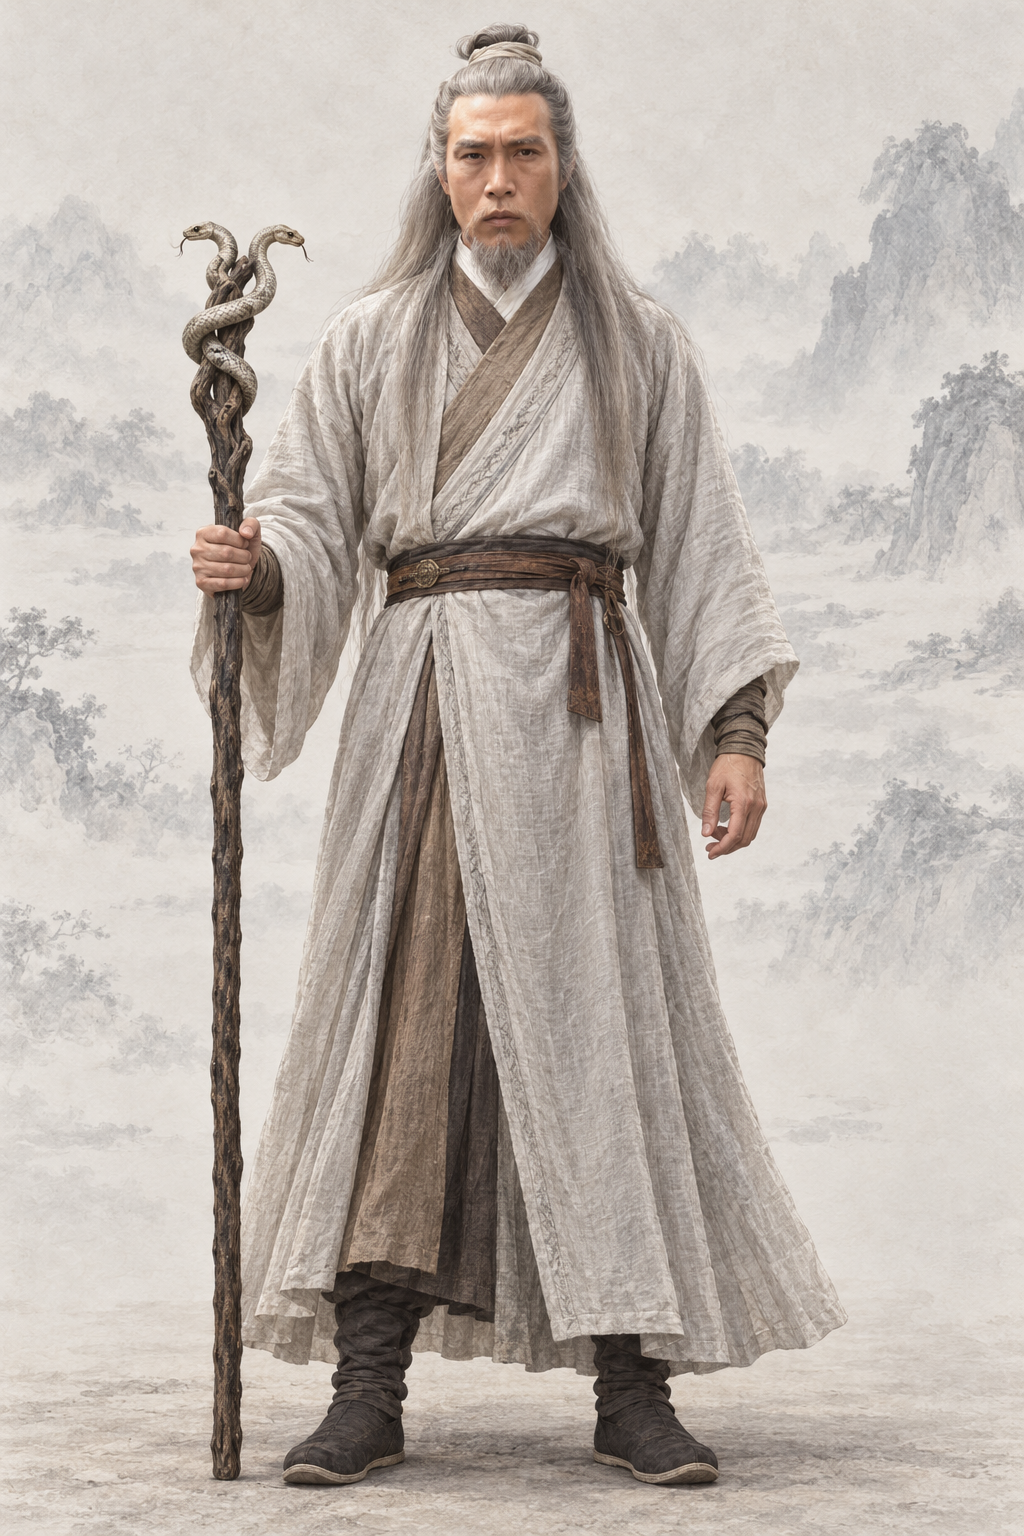
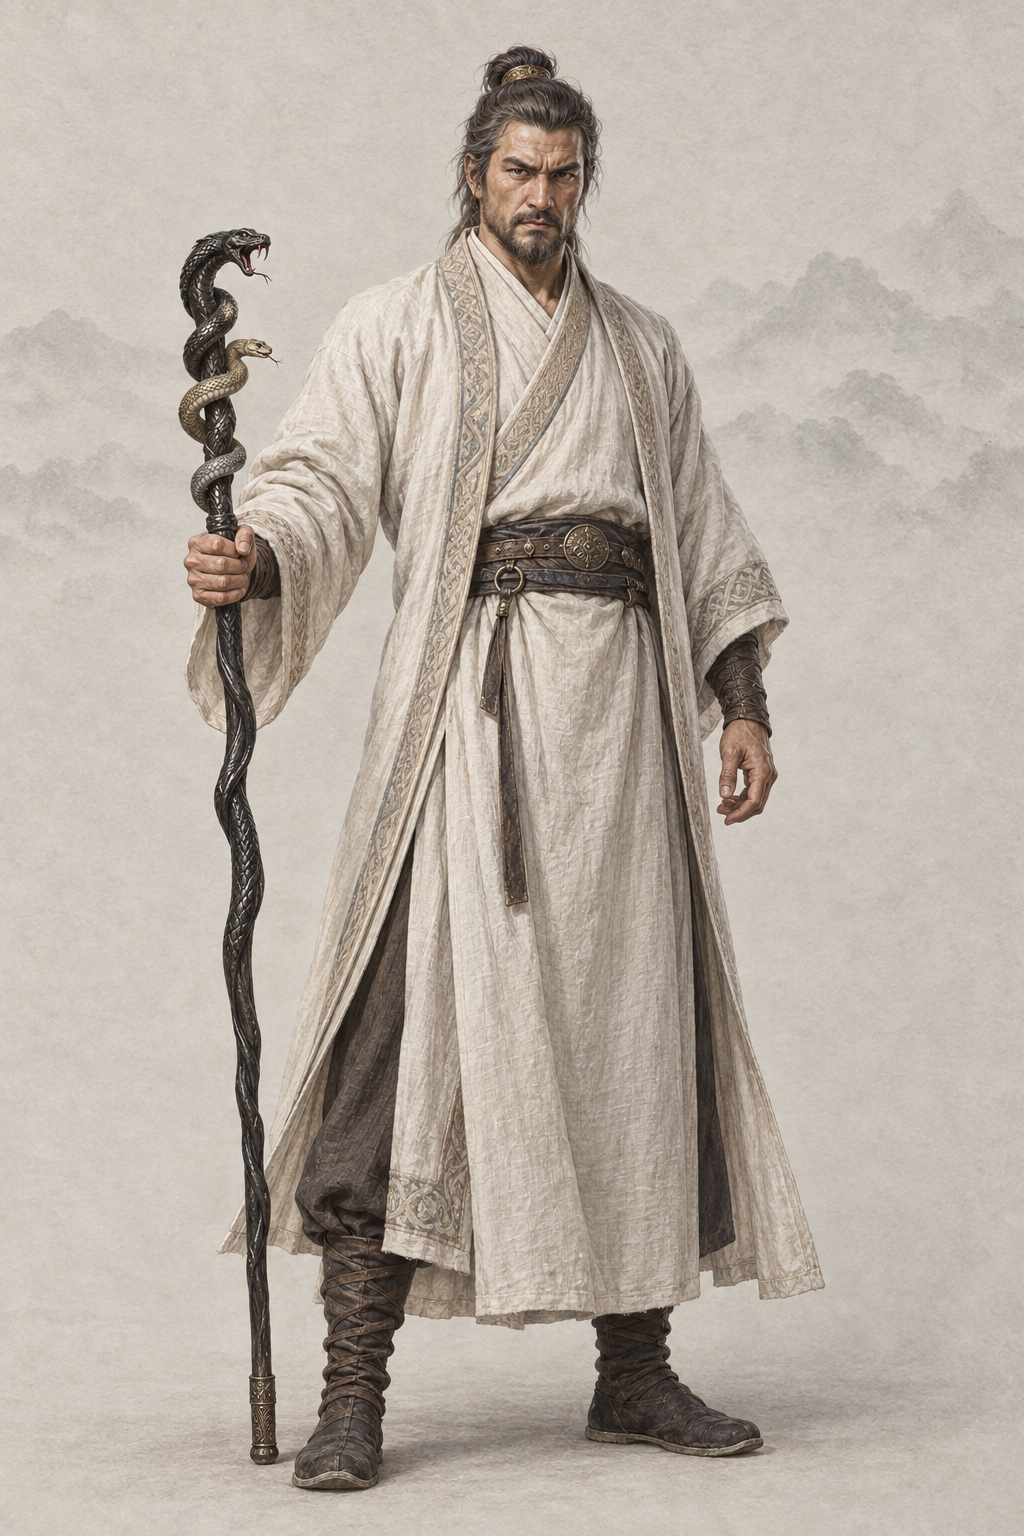
assets(character): por_npc_ouyangfeng__ch02_elder_sane_base 欧阳锋（codex）
AR-31：重要人物加经典造型文字描写（原创面孔，不写演员名、不传剧照）

diff --git a/assets/default/prompts/characters/ch02-shediao/npc_ouyangfeng.md b/assets/default/prompts/characters/ch02-shediao/npc_ouyangfeng.md
@@ -20,11 +20,31 @@ realism_revision: user_identity_pose_20261001
 redo_reason: "面容源自 1983 版剧照且是汉人面孔，原著“高鼻深目、脸上须毛棕黄、似非中土人氏”的西域相貌没有体现"
 reference_upload:
 - assets/default/baseline/character/male/ref_npc_linghuchong__ch05_base01.png
+codex_prompt_rev: 2026-10-02
 ---
 
 # 欧阳锋 · 人物写实修正
 
 ## Gemini 提示词
+
+> 2026-10-02 AR-31 改写（1 号出图员，codex exec · image_gen 出图）：重要人物借鉴经典影视造型，只写成文字——不写演员名、不上传剧照、原创面孔；主角和美人画得好看，去 AI 味，禁止幼态。出图时上传两张同性别基线立绘作画风参考（放在最后）。审核组原稿保留在下一节作历史。
+
+```text
+生成一张 2:3 竖幅全身人物立绘：单人、单一视角、完整全身——头顶、双手、双脚和手中器物的两端都在画面内，四周留出自然空白；人物站姿自然，身体基本朝向正面，头部端正（不歪头、不仰不俯），镜头平视。
+【画风】写实手绘古风人物插画，与本项目写实武侠角色立绘同一画风：人物是完整、坚实、比例真实的写实绘画；皮肤有真实质感——细小毛孔、细纹、晒痕、轻微色斑和自然的左右不对称，不磨皮、不油亮；头发有一根根的发丝和自然碎发；布料看得出经纬纹理、厚薄和自然垂坠的褶皱，带穿用过的轻微旧化，但完整不破烂；整体设色低饱和、沉稳；柔和的自然光从左上方照来，明暗过渡自然，不打舞台光、轮廓光或美颜柔光。这是手绘写实绘画，不是照片，不是三维渲染，也不是动漫或游戏 CG。
+【背景】不透明的暖浅灰色纸底，只在远处有极淡的水墨远山和薄雾，大面积留白；人物与背景明暗分明、轮廓边缘干净完整（后续要自动抠图），水墨和纸纹只在背景里，不侵入人物和衣服；脚下只有很淡的一点接触阴影。
+【人物】欧阳锋，《射雕英雄传》西毒，西域白驼山主人，天下五绝之一，神志清醒的盛年时期；阴狠毒辣、心高气傲。
+【年龄与体态】五十岁上下（确龄待考），原著说他身材高大，肩宽、威势沉雄。
+【经典造型】借鉴经典武侠影视里这个角色深入人心的造型，只取发型、装束、配色、标志道具、气质和脸型类型，用原创面孔画出来，不像任何真实演员：西毒——一身白袍、手持蛇杖（杖头盘着两条小蛇），高鼻深目、目光如刀，阴鸷狠毒、气势逼人。
+【面容】原著写他高鼻深目、脸上须毛棕黄、似非中土人氏、英气勃勃、目光如电、眼神如刀似剑。具体为：西域色目人相貌——高而带鹰钩的鼻梁、深陷的眼窝、浓眉压眼，眼珠浅褐、目光锋利如刀；面部棱角分明、颧骨高、下颌宽；两颊与下巴是棕黄色的络腮短须；皮肤偏黄褐、带风沙晒痕；棕黑头发中夹灰，束在脑后。
+【服饰】原著穿白衣：白色长袍（白驼山主人，可带少量西域纹样的滚边），外束皮腰带，深色裤、软皮靴。
+【道具】右手握一根弯曲的黑色蛇杖：杖头雕成蛇首，杖身缠着两条活蛇（蛇身完整清楚），杖尾点地。
+【姿态与神情】挺立，蛇杖拄地；目光阴鸷如刀，神态傲慢。
+【不要】画面里不要任何文字、题款、印章、签名、水印、边框、分格或多视图；不要第二个人；不要幼态（童颜、娃娃脸、婴儿肥、儿童或少年身材、大头小身）；不要塑料感皮肤、磨皮美颜、网红脸（尖下巴大眼高鼻的模板脸）、过度对称、浓妆、偶像式打光、蜡像感；不要照片质感、三维渲染或动漫大眼；不要歪头、斜镜头；不要多指、缺指（设定的伤残除外）、手与器物粘连或悬空；汉式交领必须右衽（穿着者的左襟压在右襟上），不要左衽（设定为少数民族服制的除外），不要水平镜像；不要现代物品、发光特效、法阵或能量光。不要汉人面孔；不要灰白长发披散的疯癫造型（那是神雕时期）；不要红黑大袍；不要蛤蟆功特效。
+【画风基线】随提示词上传的参考图里，最后两张是本项目的立绘画风基线：只参考它们的画风、用色、光线、质感和暖浅灰纸底加淡水墨的背景处理，整体画风必须与它们一致——精细写实的数字手绘插画，不是油画，不要厚涂笔触和画布纹理。参考图只取画风、光线、质感和背景处理，不取长相：不要照搬基线图里人物的长相、年龄、发型、服饰和姿势。
+```
+
+## 审核组 Gemini 提示词（2026-10-02 AR-30 重审稿；AR-31 改写前，历史，不再用于出图）
 
 > 2026-10-02 重要人物立绘重审（A 组，`tools/agents/reports/REVIEW-portraits-A-ch00-04.md`）：**整体重出**。面容源自 1983 版剧照且是汉人面孔，原著“高鼻深目、脸上须毛棕黄、似非中土人氏”的西域相貌没有体现。
 > 本条不上传任何参考图（`reference_upload: []`）；frontmatter 的 `references` 与本节以下内容是旧出图管线的历史记录，不再用于出图。
